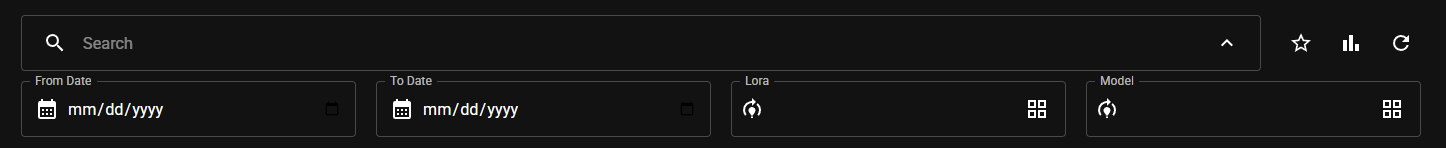
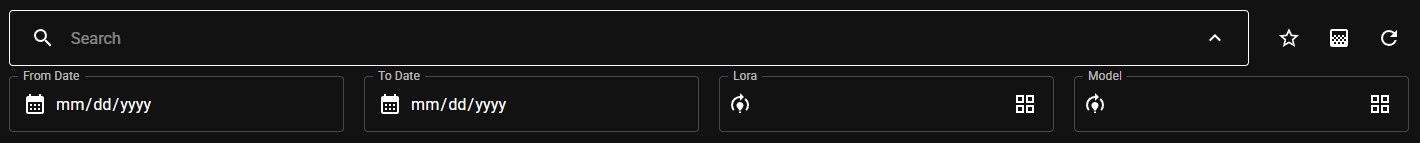
Update Help

diff --git a/chamomile.web/src/components/shared/help/subcomponents/HelpTab.tsx b/chamomile.web/src/components/shared/help/subcomponents/HelpTab.tsx
@@ -2,7 +2,7 @@ import HelpDisplay from "./helpDisplay/HelpDisplay";
 import HelpSection from "./helpDisplay/HelpSection";
 import GithubLink from "../../githubLink/GithubLink";
 import { Alert, AlertTitle, Button, Card, CardContent, IconButton, Link, Table, TableBody, TableCell, TableHead, TableRow, Tooltip } from "@mui/material";
-import { BarChart, CalendarMonth, Coffee, CoffeeOutlined, DirectionsRun, ExpandMore, Height, LibraryAdd, Menu, ModelTraining, Monitor, MoreVert, PhotoLibrary, Star, Terminal, ThumbDown, Tune, Window, Yard } from "@mui/icons-material";
+import { BarChart, CalendarMonth, Coffee, CoffeeOutlined, DirectionsRun, ExpandMore, Gradient, Height, LibraryAdd, Menu, ModelTraining, Monitor, MoreVert, PhotoLibrary, Star, Terminal, ThumbDown, Tune, Window, Yard } from "@mui/icons-material";
 import { usePrompt } from "../../../hooks/usePrompt";
 import { ReactNode } from "react";
 import { useWindowDimensions } from "../../../hooks/useWindowDimensions";
@@ -583,6 +583,9 @@ export default function HelpTab(props: {
             <div style={{ display: "flex", flexDirection: "column", gap: "10px", marginTop: "20px" }}>
                 <div>
                     <b><LabeledIcon label="Favorites"><Star htmlColor="gold" /></LabeledIcon></b>: Only show favorite images
+                </div>
+                <div>
+                    <b><LabeledIcon label="Upscaled"><Gradient color="info" /></LabeledIcon></b>: Only show upscaled images
                 </div>
                 <div>
                     <b><LabeledIcon label="To and From dates"><CalendarMonth /></LabeledIcon></b>: Inclusive date ranges for search results
